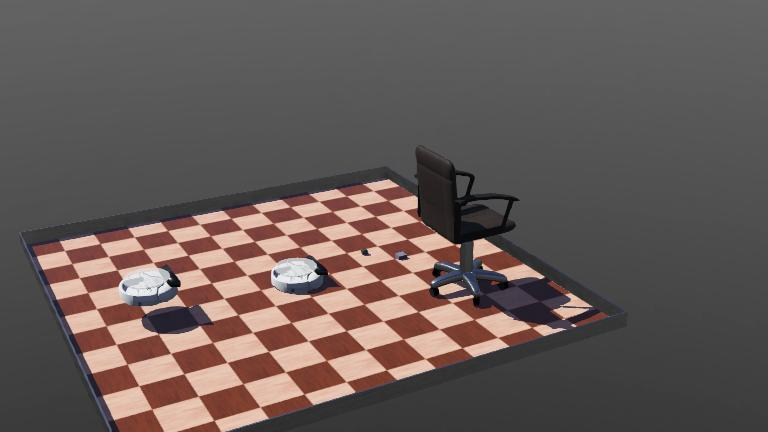
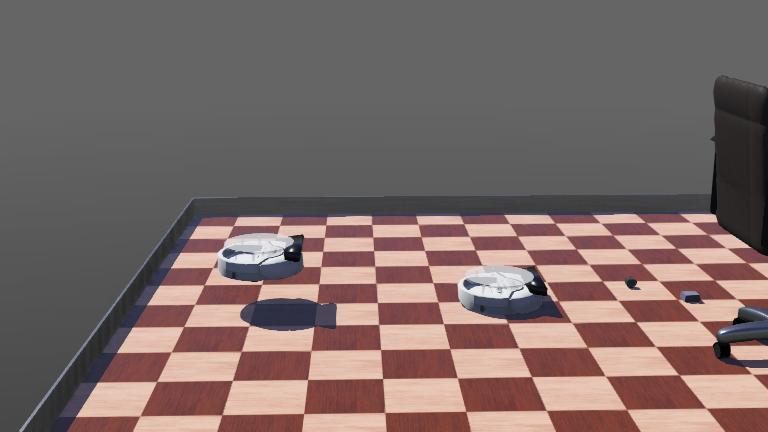
Add Inertial unit

diff --git a/controllers/myCreate_kinect/myCreate_kinect.py b/controllers/myCreate_kinect/myCreate_kinect.py
@@ -1,8 +1,10 @@
 from controller import Robot
 from controller import Keyboard
-import cv2
-import numpy as np
-import os
+from controller import Gyro
+# import cv2
+# import numpy as np
+# import os
+import math
 
 
 # Create the robot instance
@@ -32,8 +34,41 @@ camera_range = myCreate.getDevice("kinect range")
 camera.enable(TIMESTEP)
 camera_range.enable(TIMESTEP)
 
+inertial_unit = myCreate.getDevice("inertial unit")
+inertial_unit.enable(TIMESTEP)
+
 camera_width = camera.getWidth()
 camera_height = camera.getHeight()
+
+def getIMUDegrees(): #convert radians to degrees and make range 180
+    return inertial_unit.getRollPitchYaw()[2] * 180/math.pi
+
+def getDirectionFacing():
+    degrees = (getIMUDegrees() + 360) % 360
+    if(degrees < 22.5 or degrees > 337.5):
+        return 'N'
+    if(degrees < 337.5 and degrees > 292.5):
+        return 'NE'
+    if(degrees < 292.5 and degrees > 247.5):
+        return 'E'
+    if(degrees < 247.5 and degrees > 202.5):
+        return 'SE'
+    if(degrees < 202.5 and degrees > 157.5):
+        return 'S'
+    if(degrees < 157.5 and degrees > 112.5):
+        return 'SW'
+    if(degrees < 112.5 and degrees > 67.5):
+        return 'W'
+    if(degrees < 67.5 and degrees > 22.5):
+        return 'NW'
+    return '?'
+
+def IMUPrint(): # print robot orientation in degrees
+    print(' ')
+    print('[IMU: '+ str(round(getIMUDegrees(), 1)) + '° ' + getDirectionFacing() + ']')
+    # dist = getDistanceSensors()
+    # print('[left, front, right] | ', end='')
+    # print(dist)
 
 # Main loop
 while myCreate.step(TIMESTEP) != -1:
@@ -55,3 +90,5 @@ while myCreate.step(TIMESTEP) != -1:
     else:
         left_motor.setVelocity(0.0)
         right_motor.setVelocity(0.0)
+
+    IMUPrint()
